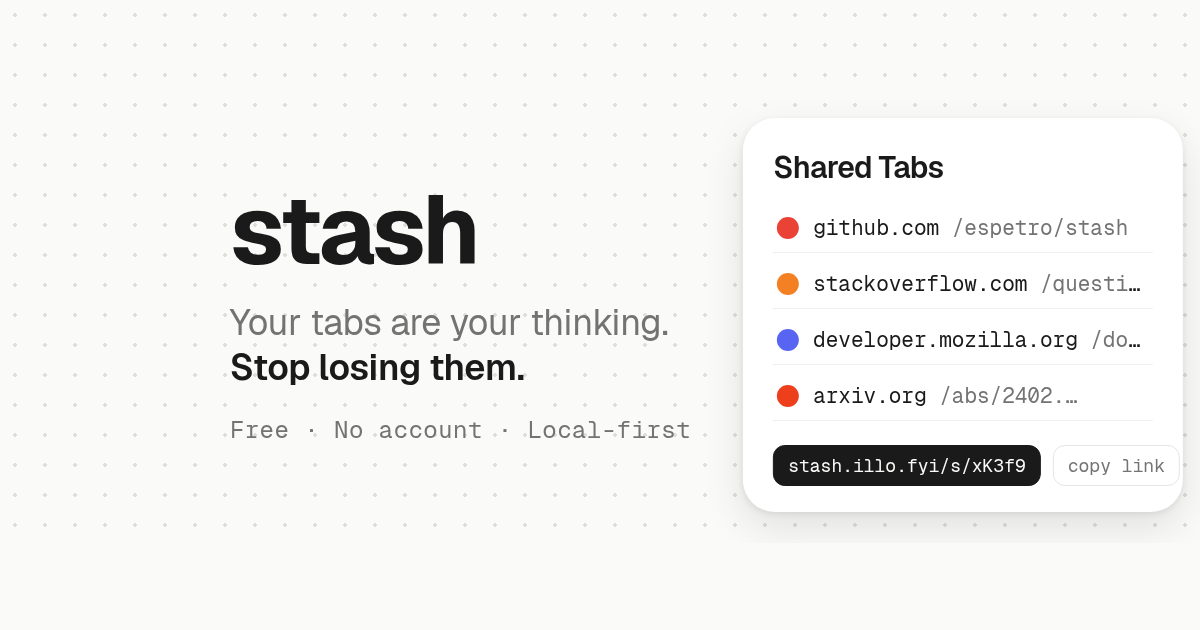
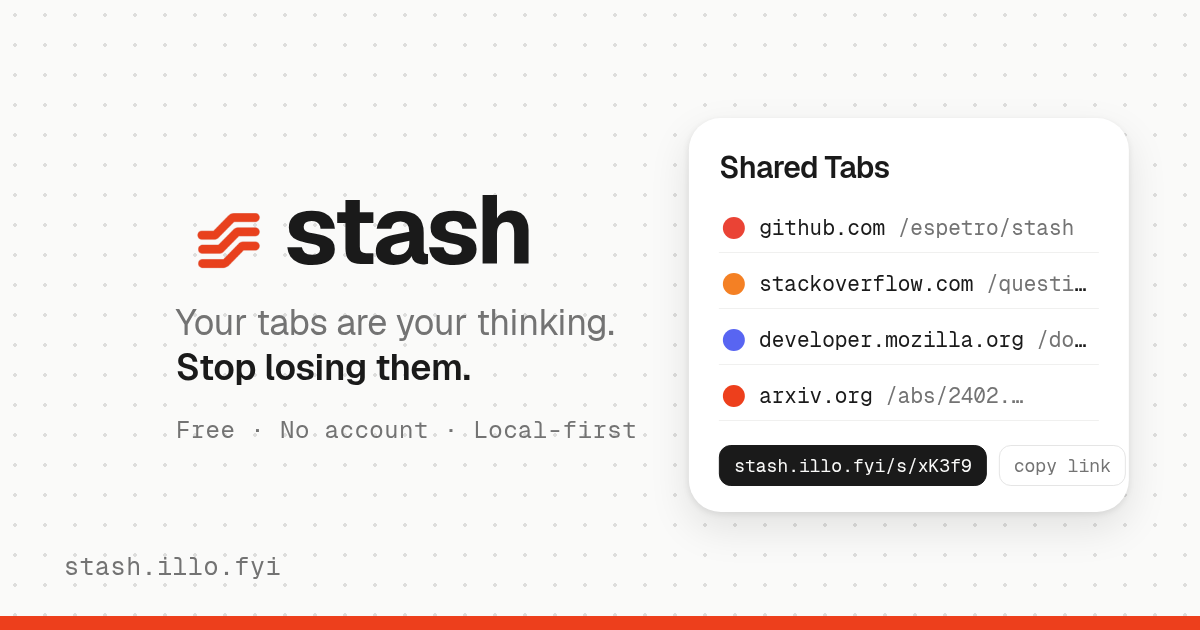
feat(brand): new stash mark across extension, viewer, and og card

diff --git a/apps/viewer/og-card.html b/apps/viewer/og-card.html
@@ -1,11 +1,18 @@
 <!doctype html>
 <!--
   og-image source card for stash.illo.fyi (1200x630).
-  Re-render: open this file in headless Chrome at the right size, e.g.
+  Re-render: screenshot at 1200x630 via Playwright (chrome --headless
+  --screenshot under-renders bottom-anchored elements on Chrome for
+  Testing — the band/urltag silently clip — so use CDP):
 
-    chrome --headless --disable-gpu --hide-scrollbars \
-      --screenshot=apps/viewer/public/og.png --window-size=1200,630 \
-      "file:///abs/path/to/apps/viewer/og-card.html?v=c"
+    // from packages/e2e
+    import { chromium } from 'playwright';
+    const b = await chromium.launch({ executablePath: '<chrome>' });
+    const p = await b.newPage({ viewport: { width: 1200, height: 630 } });
+    await p.goto('file:///abs/path/to/apps/viewer/og-card.html?v=c');
+    await p.waitForTimeout(800); // fonts
+    await p.screenshot({ path: '../../apps/viewer/public/og.png' });
+    await b.close();
 
   Variants: ?v=a light wordmark | ?v=b dark wordmark | ?v=c product mock (shipped)
 -->
@@ -28,6 +35,8 @@ body{width:1200px;height:630px;position:relative;overflow:hidden;font-family:'Ge
 /* ---- variant c: product mock ---- */
 .mock-row{position:absolute;left:50%;top:50%;transform:translate(-50%,-50%);display:flex;align-items:center;gap:52px}
 .mock-txt{display:flex;flex-direction:column;gap:24px;flex-shrink:0}
+.mock-brand{display:flex;align-items:center;gap:20px}
+.mock-logo{width:88px;height:88px;object-fit:contain}
 .mock-txt .name{font-size:96px}
 .mock-txt .tag{font-size:36px}
 .mock-txt .meta{font-size:24px}
@@ -55,7 +64,7 @@ body{width:1200px;height:630px;position:relative;overflow:hidden;font-family:'Ge
 </div>
 <div class="mock-row" id="product" style="display:none">
   <div class="mock-txt">
-    <div class="name">stash</div>
+    <div class="mock-brand"><img class="mock-logo" src="public/icon-128.png"><div class="name">stash</div></div>
     <div class="tag">Your tabs are your thinking.<br><b>Stop losing them.</b></div>
     <div class="meta">Free · No account · Local-first</div>
   </div>

diff --git a/.changeset/new-logo.md b/.changeset/new-logo.md
@@ -1,0 +1,16 @@
+---
+"@stash/extension": patch
+"stash-viewer": patch
+---
+
+feat(brand): new stash mark across extension, viewer, and og card
+
+Swaps the blue-doc icon for the new mark (red accent variant). Extension
+`icon-{16,48,128}` PNGs regenerated from the trimmed 2048px source and
+the embedded-raster `icon-*.svg` files replaced with the real vector.
+Viewer `icon-{48,128}` (navbar logo, favicon, apple-touch-icon) updated
+and `favicon.svg` added so the docs pages' `/favicon.svg` link resolves.
+og-card variant C now shows mark + wordmark; `og.png` re-rendered via
+Playwright CDP (`chrome --screenshot` clips bottom-anchored elements on
+Chrome for Testing — recipe comment updated). Sources + size ladder
+(16-512px, both colorways) kept in `assets/brand/`.
